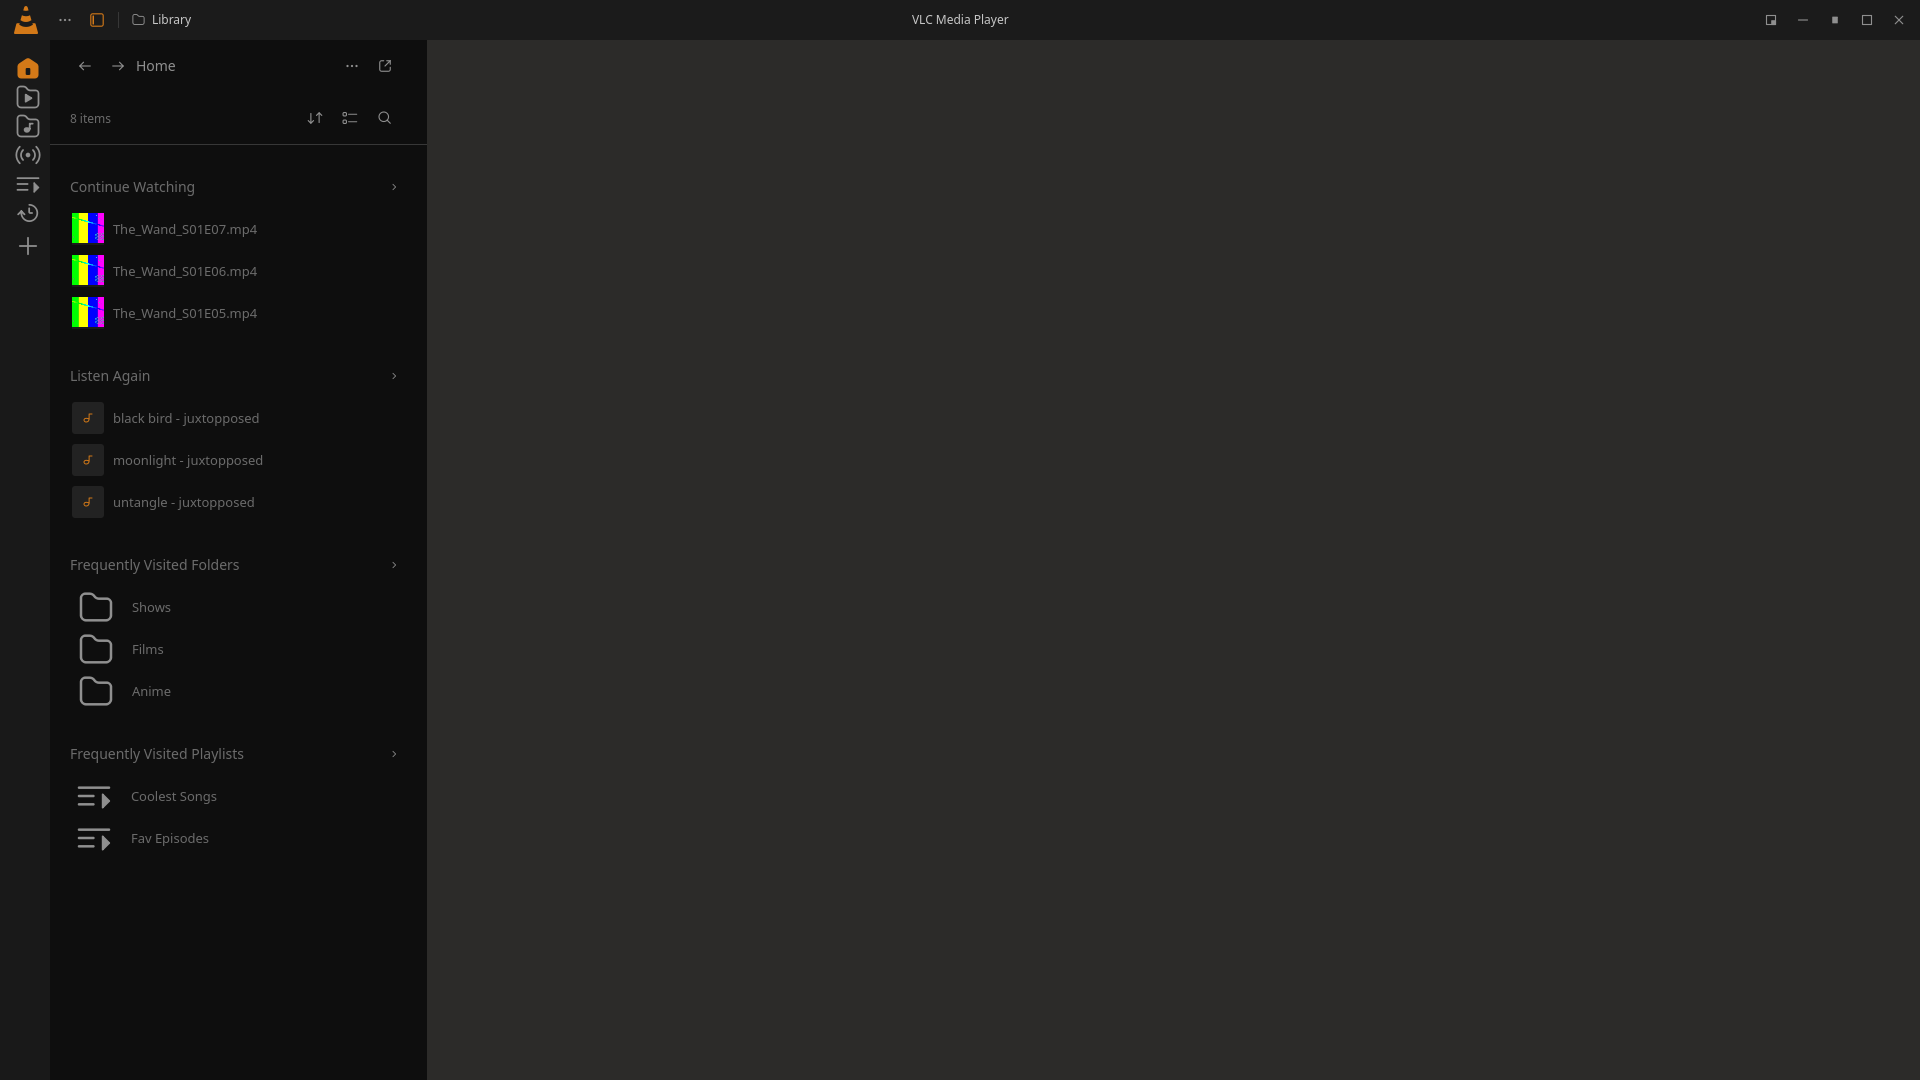
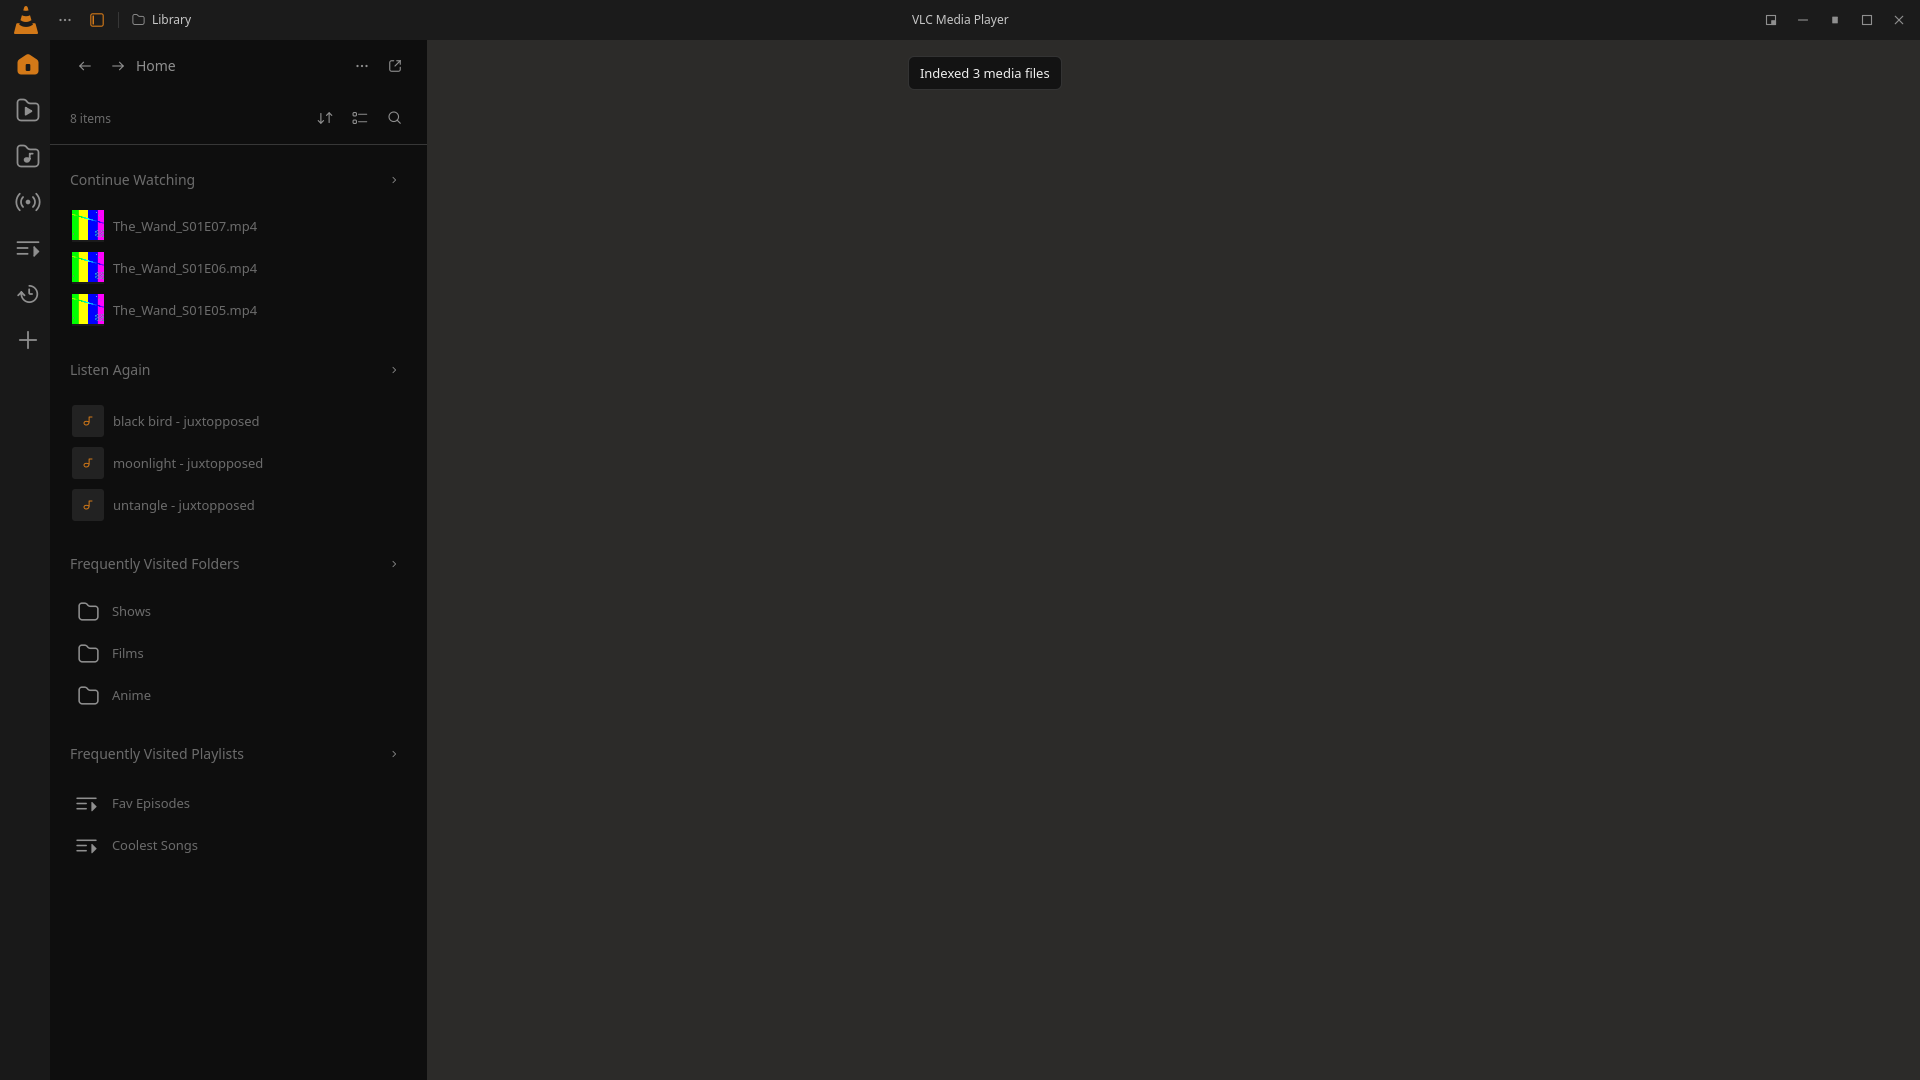
Align Home sidebar spacing with Figma

diff --git a/qml/HomeView.qml b/qml/HomeView.qml
@@ -164,7 +164,7 @@ Rectangle {
                 RowLayout {
                     Layout.fillWidth: true
                     Layout.leftMargin: root.sidePanel ? 20 : 12
-                    Layout.rightMargin: root.sidePanel ? 27 : 8
+                    Layout.rightMargin: root.sidePanel ? 17 : 8
                     Layout.preferredHeight: root.sidePanel ? 52 : 36
                     spacing: 3
                     IconButton { icon: "arrow-left"; tip: "Back"; onClicked: win.goBack() }
@@ -177,7 +177,7 @@ Rectangle {
                 RowLayout {
                     Layout.fillWidth: true
                     Layout.leftMargin: root.sidePanel ? 20 : 12
-                    Layout.rightMargin: root.sidePanel ? 27 : 8
+                    Layout.rightMargin: root.sidePanel ? 17 : 8
                     Layout.preferredHeight: root.sidePanel ? 52 : 34
                     NText { visible: !root.searchOpen; text: mediaLibrary.indexedCount + " items"; color: root.sidePanel ? Theme.librarySideText : Theme.textDim; font.pixelSize: 12; Layout.fillWidth: true }
                     NField {
@@ -197,8 +197,8 @@ Rectangle {
                     Layout.fillWidth: true
                     Layout.leftMargin: root.sidePanel ? 20 : 16
                     Layout.rightMargin: 18
-                    Layout.topMargin: root.sidePanel ? 28 : 18
-                    Layout.bottomMargin: 7
+                    Layout.topMargin: root.sidePanel ? 21 : 18
+                    Layout.bottomMargin: root.sidePanel ? 11 : 7
                     NText {
                         text: "Continue Watching"
                         font.pixelSize: root.sidePanel ? 14 : 12
@@ -287,8 +287,8 @@ Rectangle {
                     Layout.fillWidth: true
                     Layout.leftMargin: root.sidePanel ? 20 : 16
                     Layout.rightMargin: 18
-                    Layout.topMargin: root.sidePanel ? 28 : 18
-                    Layout.bottomMargin: 7
+                    Layout.topMargin: root.sidePanel ? 25 : 18
+                    Layout.bottomMargin: root.sidePanel ? 16 : 7
                     NText {
                         text: "Listen Again"
                         font.pixelSize: root.sidePanel ? 14 : 12
@@ -373,8 +373,8 @@ Rectangle {
                     Layout.fillWidth: true
                     Layout.leftMargin: root.sidePanel ? 20 : 16
                     Layout.rightMargin: 18
-                    Layout.topMargin: root.sidePanel ? 28 : 18
-                    Layout.bottomMargin: 7
+                    Layout.topMargin: root.sidePanel ? 24 : 18
+                    Layout.bottomMargin: root.sidePanel ? 12 : 7
                     NText {
                         text: "Frequently Visited Folders"
                         font.pixelSize: root.sidePanel ? 14 : 12
@@ -419,8 +419,14 @@ Rectangle {
                         }
                         RowLayout {
                             anchors.fill: parent
-                            spacing: root.sidePanel ? 16 : 9
-                            Icon { name: "folder"; size: root.sidePanel ? 20 : 16; color: Theme.icon }
+                            spacing: root.sidePanel ? 11 : 9
+                            Icon {
+                                name: "folder"
+                                size: root.sidePanel ? 25 : 16
+                                Layout.preferredWidth: size
+                                Layout.preferredHeight: size
+                                color: Theme.icon
+                            }
                             NText { text: modelData.title; font.pixelSize: root.sidePanel ? 13 : 11; color: root.sidePanel ? Theme.librarySideText : Theme.text; elide: Text.ElideRight; Layout.fillWidth: true }
                         }
                         HoverHandler { id: folderRowHover }
@@ -448,8 +454,8 @@ Rectangle {
                     Layout.fillWidth: true
                     Layout.leftMargin: root.sidePanel ? 20 : 16
                     Layout.rightMargin: 18
-                    Layout.topMargin: root.sidePanel ? 28 : 18
-                    Layout.bottomMargin: 7
+                    Layout.topMargin: root.sidePanel ? 24 : 18
+                    Layout.bottomMargin: root.sidePanel ? 14 : 7
                     NText {
                         text: "Frequently Visited Playlists"
                         font.pixelSize: root.sidePanel ? 14 : 12
@@ -494,8 +500,14 @@ Rectangle {
                         }
                         RowLayout {
                             anchors.fill: parent
-                            spacing: root.sidePanel ? 17 : 9
-                            Icon { name: "playlist"; size: root.sidePanel ? 20 : 16; color: Theme.icon }
+                            spacing: root.sidePanel ? 13 : 9
+                            Icon {
+                                name: "playlist"
+                                size: root.sidePanel ? 25 : 16
+                                Layout.preferredWidth: size
+                                Layout.preferredHeight: size
+                                color: Theme.icon
+                            }
                             NText { text: root.playlistLabel(playlist.fileName); font.pixelSize: root.sidePanel ? 13 : 11; color: root.sidePanel ? Theme.librarySideText : Theme.text; elide: Text.ElideRight; Layout.fillWidth: true }
                         }
                         HoverHandler { id: playlistRowHover }

diff --git a/docs/figma-parity.md b/docs/figma-parity.md
@@ -101,6 +101,8 @@ Side-toolbar SVG audit (2026-10-24): zooming Figma's Playlists and Videos contro
 
 Music side-pane follow-up (2026-10-24): a direct `browser` comparison of the copied Figma prototype's Music categories and Songs → My Songs states confirms the 50 px rail, approximately 377 px pane, title row, count/toolbar row, divider and 44 px category rhythm. The prototype currently has no Albums/Artists/Genres detail states: directly clicking each category row leaves the view on Music categories. Their local detail screens are functional library views, but cannot be claimed as 1:1 against this Figma copy until destination designs exist. A local Albums fixture exposed an extra search button in the title row; it is now hidden in Figma side-pane mode, leaving search in the second toolbar row as in the reference. The isolated 3-track fixture verifies the breadcrumb `Music › Albums`, singular `1 item` count and `3 tracks` album row. [`music-sidebar-categories.png`](screenshots/music-sidebar-categories.png) records the local light-theme categories state side by side with the prototype; its category icon column, label column and 44 px rows align. A fresh Songs detail capture with two tagged sample tracks verifies the corrected x=70 cover and x=112 title placement, breadcrumb start and right-aligned toolbar controls: [`music-sidebar-songs.png`](screenshots/music-sidebar-songs.png). The Figma MCP metadata request is currently rate-limited on the Starter seat; this comparison used the user's `browser` command and available prototype frames.
 
+Home side-pane polish (2026-10-24): a normalized side-by-side capture found the Home toolbar controls 10 px too far left, folder/playlist SVGs enlarging their row layout beyond the intended size, and section spacing drifting vertically through the page. The toolbar right inset is now 17 px; folder and playlist icons use a 25 px layout box with adjusted spacing so labels begin at x=62 like Figma. Section-specific top and bottom margins now align the headings and first rows for Continue Watching, Listen Again, Frequently Visited Folders and Frequently Visited Playlists to within 1 px in the 1920×1080 comparison. [`home-sidebar.png`](screenshots/home-sidebar.png) has been refreshed from the seeded local fixture; its generated video thumbnails and demo audio artwork differ from Figma's sample media.
+
 Collapsed navigation-rail follow-up (2026-10-24): the previous 26 px buttons packed the seven entries at 29 px intervals, visibly tighter than Figma. The collapsed rail now uses 44 px rows with 2 px gaps and no spacer before Add; its 1920×1080 centers are `64/110/156/202/248/294/340`, matching the prototype. Row height shrinks with the available rail height so all seven entries remain visible at the 560×340 minimum window; the offscreen capture measured 41 px rows and centers `57/100/143/186/229/272/315`. Expanded-rail geometry is unchanged.
 
 Playlist pane chrome follow-up (2026-10-24): a side-by-side comparison of Figma's Playlists state with a fresh 1920×1080 VLC Neo capture found the Back/Forward pair, title, More/Open buttons, and second-row sort/view/search controls were all shifted left by roughly 10 px. The right inset and button gaps now align those controls with the prototype; the implementation capture is refreshed at [`playlists-sidebar.png`](screenshots/playlists-sidebar.png). The two fixture playlist names are alphabetized locally, while Figma's example order is curated.
